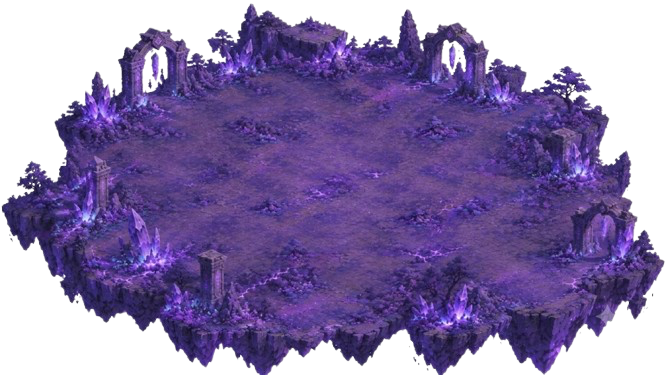
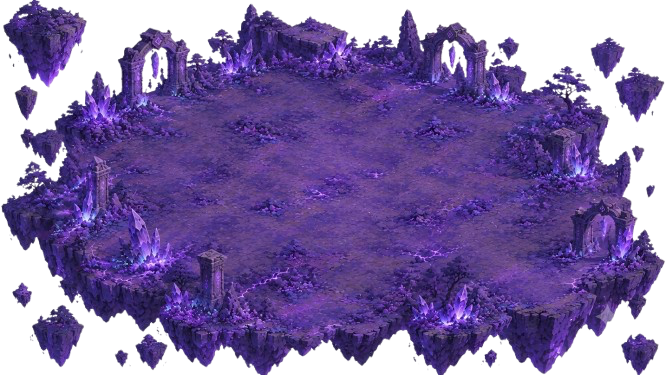
update bg map3

diff --git a/src/map/EarthArea.java b/src/map/EarthArea.java
@@ -19,16 +19,14 @@ import java.awt.geom.Line2D;
 import java.awt.geom.Path2D;
 import java.awt.geom.Point2D;
 import java.awt.image.BufferedImage;
-import java.io.File;
 import java.util.ArrayList;
-import java.util.Arrays;
 import java.util.List;
 import java.util.Random;
 
 /**
  * ĐẢO 3 - THẾ GIỚI SẤM SÉT (màu chủ đạo: tím)
  *
- * Bố cục: núi cao bao quanh vành đảo -> chân núi -> 4 ô trồng cây (mỗi ô 3x3) ngăn bởi đường chữ thập
+ * Bố cục: vành đảo -> chân đồi -> 4 ô trồng cây (mỗi ô 3x3) ngăn bởi đường chữ thập
  * -> quảng trường trung tâm có quả cầu lơ lửng. Cổng sấm sét đứng ở góc sau của đảo.
  * Trên trời: mây bão tím, sét đánh (có nháy sáng), tia điện nhỏ bay lên.
  *
@@ -38,10 +36,7 @@ import java.util.Random;
  *   lake.png        - hồ nước dưới quả cầu (ảnh phẳng nằm trên mặt đất, dạng hình thoi/elip 2:1). Chỉnh LAKE_W.
  *   ring_back.png, ring_front.png - (tuỳ chọn) vành hào quang kiểu sao Thổ, cùng kích thước & căn giữa:
  *                     ring_back là nửa nằm sau đảo, ring_front là nửa nằm trước đảo. Có ảnh thì bỏ vành tự vẽ.
- *   mountain*.png (mountain1.png, mountain_2.png, mountainA.jpg...) - ẢNH NÚI bao quanh vành đảo (nền trong suốt, chân núi nằm sát đáy ảnh).
- *                     Mọi file trong res/map3 có tên bắt đầu bằng "mountain" đều được nạp, game tự random + lật ngang.
- *                     Không có ảnh nào thì dùng núi tự vẽ. Chỉnh các hằng số MT_* bên dưới cho vừa mắt.
- *   map3_island.png - (tuỳ chọn) ảnh nền cả đảo 2880x1440; nếu có thì thay luôn nền ô và dãy núi tự vẽ.
+ *   map3_island.png - (tuỳ chọn) ảnh nền cả đảo 2880x1440; nếu có thì thay luôn nền ô tự vẽ.
  *   plant_lv1/2/3.png - cây người chơi trồng (Plant.java nạp), nên vẽ tông tím.
  */
 public class EarthArea extends MapArea {
@@ -54,7 +49,7 @@ public class EarthArea extends MapArea {
     // ====================== THAM SỐ DỄ CHỈNH ======================
     private static final int GATE_R = 0, GATE_C = 0;   // ô đặt cổng (0,0 = góc sau cùng của đảo)
     private static final int GATE_H = 720;             // chiều cao cổng khi dùng ảnh (px world)
-    private static final int GATE_LIFT = 20;          // nâng cổng lên (+) hay hạ xuống (-)
+    private static final int GATE_LIFT = 20;           // nâng cổng lên (+) hay hạ xuống (-)
     private static final int ORB_W = 340;              // chiều rộng quả cầu khi dùng ảnh
     private static final int ORB_LIFT = 260;           // độ cao quả cầu so với mặt đất
     private static final int LAKE_W = 440;             // chiều rộng hồ khi dùng ảnh
@@ -69,8 +64,8 @@ public class EarthArea extends MapArea {
     private static final double LAKE_FX_RX = 170;          // nửa chiều rộng vùng nước có gợn sóng (chiều cao = 1/2)
     private static final double ORB_FX_R = 130;            // bán kính vùng tia điện bên trong quả cầu
 
-    // Bật/tắt các lớp trang trí bên ngoài dãy núi
-    private static final boolean SHOW_CLOUD_COLLAR = true;   // mây bao quanh chân núi (phía ngoài)
+    // Bật/tắt các lớp trang trí bên ngoài đảo
+    private static final boolean SHOW_CLOUD_COLLAR = true;   // mây bao quanh đảo (phía ngoài)
     private static final boolean SHOW_HALO_RING = true;      // vành hào quang kiểu sao Thổ
     private static final int RING_BASE = 1950;               // bán kính ngoài của vành (px world)
     private static final int RING_DY = 120;                  // dịch tâm vành xuống một chút so với tâm đảo
@@ -85,40 +80,19 @@ public class EarthArea extends MapArea {
     // 4 ô trồng cây: {hàng đầu, hàng cuối, cột đầu, cột cuối}
     private static final int[][] PLOTS = {{2, 4, 2, 4}, {2, 4, 7, 9}, {7, 9, 2, 4}, {7, 9, 7, 9}};
 
-    // Lề ảnh đệm của dãy núi
-    private static final int PAD_X = 200, PAD_TOP = 700, PAD_BOTTOM = 120;
-    private static final double MOUNT_SCALE = 0.5;    // vẽ đệm nửa kích thước cho đỡ tốn bộ nhớ (núi tự vẽ)
-
-    // ====================== NÚI DÙNG ẢNH (res/map3/mountain1..8.png) ======================
-    private static final int MT_MAX_VARIANTS = 16;         // số ảnh núi tối đa sẽ nạp
-    private static final double MT_RIM_W_MIN = 380;        // chiều rộng núi ở vành ngoài (px world) - nhỏ nhất
-    private static final double MT_RIM_W_MAX = 560;        // ... lớn nhất
-    private static final double MT_FOOT_SCALE = 0.55;      // núi chân đồi (hàng trong) nhỏ bằng ngần này so với núi vành
-    private static final double MT_MAX_H = 820;            // giới hạn chiều cao 1 ngọn (px world), tránh tràn ảnh đệm
-    private static final int MT_SINK = 14;                 // hạ chân núi xuống thêm (px) để che phần trong suốt ở đáy ảnh
-    private static final boolean MT_FLIP = true;           // cho phép lật ngang ngẫu nhiên
-    private static final boolean MT_SHADOW = true;         // bóng mờ dưới chân núi
-    private static final double MT_LAYER_SCALE = 0.75;     // độ nét của lớp đệm núi ảnh (1.0 = nét nhất, tốn RAM nhất)
-
     // Sét: 3 "kênh" đánh lệch nhịp nhau
     private static final double[] BOLT_PERIOD = {3.3, 4.7, 6.1};
     private static final double[] BOLT_OFFSET = {0.0, 1.7, 3.1};
 
     private BufferedImage islandBgImg, gateImg, orbImg, lakeImg, ringBackImg, ringFrontImg;
-    private BufferedImage mountainLayer;
-    private final List<BufferedImage> mountainImgs = new ArrayList<>();   // ảnh núi người chơi cung cấp
-    private double mountScale = MOUNT_SCALE;                               // tỉ lệ thực tế của lớp đệm núi
-    private final List<double[]> tips = new ArrayList<>();   // đỉnh núi cao (x, y so với tâm đảo)
-
     private final long[] boltSlot = {-1, -1, -1};
     private final Path2D[] boltMain = new Path2D[3];
     private final Path2D[] boltBranch = new Path2D[3];
-    private final double[][] boltTarget = new double[3][3];  // x, y, loại (0 đỉnh núi, 1 quả cầu, 2 trời)
+    private final double[][] boltTarget = new double[3][3];  // x, y, loại (1 quả cầu, 2 trời)
 
     public EarthArea() {
         super(false);
         loadImages();
-        buildMountains();
     }
 
     @Override
@@ -130,25 +104,6 @@ public class EarthArea extends MapArea {
         lakeImg = ImageHelper.loadImage("res/map3/lake.png");
         ringBackImg = ImageHelper.loadImage("res/map3/ring_back.png");
         ringFrontImg = ImageHelper.loadImage("res/map3/ring_front.png");
-
-        // Quét thư mục res/map3: nạp MỌI ảnh có tên bắt đầu bằng "mountain" (hoặc gõ nhầm "moutain"), đuôi png/jpg/jpeg
-        mountainImgs.clear();
-        File[] files = new File("res/map3").listFiles();
-        if (files != null) {
-            Arrays.sort(files);
-            for (File f : files) {
-                String n = f.getName().toLowerCase();
-                boolean nameOk = n.startsWith("mountain") || n.startsWith("moutain");
-                boolean extOk = n.endsWith(".png") || n.endsWith(".jpg") || n.endsWith(".jpeg");
-                if (!nameOk || !extOk || mountainImgs.size() >= MT_MAX_VARIANTS) continue;
-                BufferedImage m = ImageHelper.loadImage(f.getPath());
-                if (m != null) {
-                    mountainImgs.add(m);
-                    System.out.println("[EarthArea] Đã nạp núi: " + f.getName());
-                }
-            }
-        }
-        System.out.println("[EarthArea] Tổng số ảnh núi: " + mountainImgs.size());
     }
 
     // =========================================================================
@@ -162,10 +117,6 @@ public class EarthArea extends MapArea {
         if (midR || midC) return PATH;
         if (layer == 1) return FOOT;
         return PLOT;
-    }
-
-    private boolean nearGate(int r, int c) {
-        return Math.abs(r - GATE_R) <= 1 && Math.abs(c - GATE_C) <= 1;
     }
 
     // Toạ độ world của điểm (r, c) có thể là số lẻ - cùng công thức với ImageHelper
@@ -189,186 +140,6 @@ public class EarthArea extends MapArea {
         return new Color(Math.min(255, (int) (c.getRed() * f)),
                          Math.min(255, (int) (c.getGreen() * f)),
                          Math.min(255, (int) (c.getBlue() * f)));
-    }
-
-    // =========================================================================
-    // DÃY NÚI (vẽ sẵn 1 lần vào ảnh đệm)
-    // =========================================================================
-    private void buildMountains() {
-        boolean useImg = !mountainImgs.isEmpty();
-        mountScale = useImg ? MT_LAYER_SCALE : MOUNT_SCALE;
-
-        int w = MAP3_WIDTH + PAD_X * 2;
-        int h = MAP3_HEIGHT + PAD_TOP + PAD_BOTTOM;
-        mountainLayer = new BufferedImage((int) (w * mountScale), (int) (h * mountScale),
-                                          BufferedImage.TYPE_INT_ARGB);
-        Graphics2D g = mountainLayer.createGraphics();
-        g.setRenderingHint(RenderingHints.KEY_ANTIALIASING, RenderingHints.VALUE_ANTIALIAS_ON);
-        g.setRenderingHint(RenderingHints.KEY_INTERPOLATION, RenderingHints.VALUE_INTERPOLATION_BILINEAR);
-        g.scale(mountScale, mountScale);
-        double offX = w / 2.0, offY = MAP3_HEIGHT / 2.0 + PAD_TOP;   // (x, y so với tâm) -> toạ độ đệm
-
-        Random rnd = new Random(11);
-        List<double[]> peaks = new ArrayList<>();   // {x, y, rộng, cao, hạt giống, là-núi-chính, chỉ số ảnh (-1 = tự vẽ)}
-        for (int r = 0; r < SIZE; r++) {
-            for (int c = 0; c < SIZE; c++) {
-                int kind = kindOf(r, c);
-                if (kind != RIM && kind != FOOT) continue;
-                if (nearGate(r, c)) continue;                     // chừa chỗ cho cổng
-                int n;
-                if (kind == RIM) n = 2 + (rnd.nextInt(3) == 0 ? 1 : 0);
-                else if (rnd.nextDouble() < 0.3) n = 1;
-                else continue;
-                double tx = (c - r) * (PlayState.TILE_W / 2.0);
-                double ty = (c + r - (SIZE - 1)) * (PlayState.TILE_H / 2.0);
-                // phía sau cao, phía trước thấp để không che vùng trồng
-                double depthF = 1.0 - 0.6 * ((r + c) / (2.0 * (SIZE - 1)));
-                for (int k = 0; k < n; k++) {
-                    double a = rnd.nextDouble() - 0.5, b = rnd.nextDouble() - 0.5;
-                    double x = tx + (b - a) * (PlayState.TILE_W / 2.0);
-                    double y = ty + (a + b) * (PlayState.TILE_H / 2.0);
-                    double pw, ph;
-                    int imgIdx = -1;
-                    if (useImg) {
-                        imgIdx = rnd.nextInt(mountainImgs.size());
-                        BufferedImage src = mountainImgs.get(imgIdx);
-                        double aspect = (double) src.getHeight() / src.getWidth();
-                        double base = MT_RIM_W_MIN + rnd.nextDouble() * (MT_RIM_W_MAX - MT_RIM_W_MIN);
-                        if (kind == FOOT) base *= MT_FOOT_SCALE;
-                        pw = base * depthF;                      // giữ nguyên tỉ lệ ảnh, phía trước thu nhỏ cả ngang lẫn dọc
-                        ph = pw * aspect;
-                        if (ph > MT_MAX_H) { pw *= MT_MAX_H / ph; ph = MT_MAX_H; }
-                    } else if (kind == RIM) {
-                        pw = 250 + rnd.nextDouble() * 170; ph = (340 + rnd.nextDouble() * 260) * depthF;
-                    } else {
-                        pw = 170 + rnd.nextDouble() * 100; ph = (110 + rnd.nextDouble() * 110) * depthF;
-                    }
-                    peaks.add(new double[]{x, y, pw, ph, rnd.nextInt(1_000_000), kind == RIM ? 1 : 0, imgIdx});
-                }
-            }
-        }
-        peaks.sort((p, q) -> Double.compare(p[1], q[1]));   // sau vẽ trước, trước vẽ sau
-
-        List<double[]> tall = new ArrayList<>();
-        for (double[] p : peaks) {
-            if (p[6] >= 0) drawImagePeak(g, mountainImgs.get((int) p[6]), p[0] + offX, p[1] + offY, p[2], p[3],
-                                         new Random((long) p[4]));
-            else           drawPeak(g, p[0] + offX, p[1] + offY, p[2], p[3], new Random((long) p[4]));
-            if (p[5] == 1 && p[3] > 300) tall.add(new double[]{p[0], p[1] - p[3], p[3]});
-        }
-        g.dispose();
-
-        tall.sort((p, q) -> Double.compare(q[2], p[2]));    // cao nhất lên đầu
-        for (int i = 0; i < Math.min(12, tall.size()); i++)
-            tips.add(new double[]{tall.get(i)[0], tall.get(i)[1]});
-    }
-
-    /** Vẽ một ngọn núi từ ảnh: chân núi đặt tại (x, y), căn giữa theo chiều ngang. g đang bị scale(mountScale). */
-    private void drawImagePeak(Graphics2D g, BufferedImage img, double x, double y, double w, double h, Random rnd) {
-        boolean flip = MT_FLIP && rnd.nextBoolean();
-
-        if (MT_SHADOW) {
-            g.setColor(new Color(20, 8, 40, 90));
-            g.fill(new Ellipse2D.Double(x - w * 0.5, y - 18, w, 44));
-        }
-
-        // thu nhỏ trước về đúng số điểm ảnh sẽ hiển thị (chia đôi dần) cho núi mịn, không răng cưa
-        int pw = Math.max(1, (int) Math.round(w * mountScale));
-        int ph = Math.max(1, (int) Math.round(h * mountScale));
-        BufferedImage scaled = scaleSmooth(img, pw, ph);
-
-        int dx = (int) Math.round(x - w / 2.0);
-        int dy = (int) Math.round(y - h + MT_SINK);
-        int iw = (int) Math.round(w), ih = (int) Math.round(h);
-        if (flip) g.drawImage(scaled, dx + iw, dy, -iw, ih, null);
-        else      g.drawImage(scaled, dx, dy, iw, ih, null);
-    }
-
-    private static BufferedImage scaleSmooth(BufferedImage src, int tw, int th) {
-        BufferedImage cur = src;
-        int cw = src.getWidth(), ch = src.getHeight();
-        while (cw / 2 >= tw && ch / 2 >= th) {
-            cw /= 2; ch /= 2;
-            cur = resizeOnce(cur, cw, ch);
-        }
-        return resizeOnce(cur, tw, th);
-    }
-
-    private static BufferedImage resizeOnce(BufferedImage src, int w, int h) {
-        BufferedImage out = new BufferedImage(w, h, BufferedImage.TYPE_INT_ARGB);
-        Graphics2D gg = out.createGraphics();
-        gg.setRenderingHint(RenderingHints.KEY_INTERPOLATION, RenderingHints.VALUE_INTERPOLATION_BILINEAR);
-        gg.drawImage(src, 0, 0, w, h, null);
-        gg.dispose();
-        return out;
-    }
-
-    /** Một ngọn núi tím: hai mặt sáng/tối, đỉnh phủ băng tím nhạt, vài vết nứt */
-    private void drawPeak(Graphics2D g, double x, double y, double w, double h, Random rnd) {
-        double tint = 0.88 + rnd.nextDouble() * 0.24;
-        Color lit = scale(new Color(100, 78, 156), tint);
-        Color shade = scale(new Color(58, 42, 104), tint);
-        Color line = new Color(30, 20, 56);
-        Color ice = new Color(222, 208, 250);
-        Color iceShade = new Color(176, 156, 226);
-
-        double ax = x + (rnd.nextDouble() - 0.5) * w * 0.12, ay = y - h;
-
-        // chân núi mờ cho hoà vào nền
-        g.setColor(new Color(20, 8, 40, 90));
-        g.fill(new Ellipse2D.Double(x - w * 0.6, y - 20, w * 1.2, 44));
-
-        Path2D.Double body = new Path2D.Double();
-        body.moveTo(x - w / 2, y);
-        body.lineTo(x - w * 0.30, y - h * 0.40);
-        body.lineTo(x - w * 0.12, y - h * 0.68);
-        body.lineTo(ax, ay);
-        body.lineTo(x + w * 0.14, y - h * 0.70);
-        body.lineTo(x + w * 0.31, y - h * 0.38);
-        body.lineTo(x + w / 2, y);
-        body.closePath();
-        g.setColor(lit);
-        g.fill(body);
-
-        Path2D.Double right = new Path2D.Double();
-        right.moveTo(ax, ay);
-        right.lineTo(x + w * 0.14, y - h * 0.70);
-        right.lineTo(x + w * 0.31, y - h * 0.38);
-        right.lineTo(x + w / 2, y);
-        right.lineTo(x + w * 0.05, y);
-        right.lineTo(x + w * 0.01, y - h * 0.50);
-        right.closePath();
-        g.setColor(shade);
-        g.fill(right);
-
-        // đỉnh băng
-        Path2D.Double cap = new Path2D.Double();
-        cap.moveTo(ax, ay);
-        cap.lineTo(x - w * 0.12, y - h * 0.68);
-        cap.lineTo(x - w * 0.08, y - h * 0.60);
-        cap.lineTo(x - w * 0.02, y - h * 0.67);
-        cap.lineTo(x + w * 0.04, y - h * 0.59);
-        cap.lineTo(x + w * 0.10, y - h * 0.66);
-        cap.lineTo(x + w * 0.14, y - h * 0.70);
-        cap.closePath();
-        g.setColor(ice);
-        g.fill(cap);
-        Path2D.Double capShade = new Path2D.Double();
-        capShade.moveTo(ax, ay);
-        capShade.lineTo(x + w * 0.14, y - h * 0.70);
-        capShade.lineTo(x + w * 0.10, y - h * 0.66);
-        capShade.lineTo(x + w * 0.04, y - h * 0.59);
-        capShade.lineTo(x + w * 0.01, y - h * 0.62);
-        capShade.closePath();
-        g.setColor(iceShade);
-        g.fill(capShade);
-
-        g.setStroke(new BasicStroke(4f, BasicStroke.CAP_ROUND, BasicStroke.JOIN_ROUND));
-        g.setColor(line);
-        g.draw(body);
-        g.setColor(new Color(30, 20, 56, 150));
-        g.drawLine((int) (x - w * 0.12), (int) (y - h * 0.30), (int) (x - w * 0.02), (int) (y - h * 0.06));
-        g.drawLine((int) (x + w * 0.18), (int) (y - h * 0.34), (int) (x + w * 0.28), (int) (y - h * 0.10));
     }
 
     // =========================================================================
@@ -473,23 +244,14 @@ public class EarthArea extends MapArea {
 
         drawStormClouds(g2, cx, cy, sec, flash);
         drawHalo(g2, cx, cy, sec, flash, true);           // nửa sau của vành hào quang
-        drawCloudCollar(g2, cx, cy, sec, flash, true);    // mây phía sau dãy núi
-
-        // Có ảnh núi riêng thì luôn vẽ (kể cả khi đã có ảnh nền đảo); không có ảnh núi thì chỉ vẽ núi tự vẽ khi chưa có ảnh nền
-        if (islandBgImg == null || !mountainImgs.isEmpty()) {
-            g2.drawImage(mountainLayer, cx - (int) ((MAP3_WIDTH + PAD_X * 2) / 2.0),
-                         cy - MAP3_HEIGHT / 2 - PAD_TOP,
-                         (int) Math.round(mountainLayer.getWidth() / mountScale),
-                         (int) Math.round(mountainLayer.getHeight() / mountScale), null);
-        }
+        drawCloudCollar(g2, cx, cy, sec, flash, true);    // mây phía sau đảo
 
         drawPlotBorders(g2, sec);
         drawRuneRing(g2, cx, cy, sec, orbCharge);
         drawGate(g2, sec, flash);
         if (!overlayHooked) drawOrb(g2, cx, cy, sec, orbCharge);   // dự phòng khi PlayState chưa gọi drawOverlay()
         drawHalo(g2, cx, cy, sec, flash, false);          // nửa trước của vành hào quang
-        drawCloudCollar(g2, cx, cy, sec, flash, false);   // mây phủ chân núi phía trước
-        drawPeakZaps(g2, cx, cy, sec);
+        drawCloudCollar(g2, cx, cy, sec, flash, false);   // mây phía trước đảo
         drawBolts(g2, stormInten);
         drawMotes(g2, cx, cy, sec);
         drawFlash(g2, cx, cy, flash);
@@ -665,10 +427,10 @@ public class EarthArea extends MapArea {
         }
     }
 
-    // ------------------------------ Mây bao quanh chân núi (phía ngoài) ------------------------------
+    // ------------------------------ Mây bao quanh đảo (phía ngoài) ------------------------------
     private void drawCloudCollar(Graphics2D g2, int cx, int cy, double sec, double flash, boolean back) {
         if (!SHOW_CLOUD_COLLAR) return;
-        double W = 1440 + 260, H = 720 + 140;                   // đường viền hình thoi nới rộng ra ngoài chân núi
+        double W = 1440 + 260, H = 720 + 140;                   // đường viền hình thoi nới rộng ra ngoài đảo
         double[][] corners = {{0, -H}, {W, 0}, {0, H}, {-W, 0}};
         Color body = lerp(new Color(58, 42, 104), new Color(190, 150, 250), flash * 0.8);
         Color under = lerp(new Color(34, 22, 66), new Color(150, 110, 220), flash * 0.5);
@@ -1060,10 +822,7 @@ public class EarthArea extends MapArea {
 
         double tx, ty, type;
         double roll = rnd.nextDouble();
-        if (roll < 0.5 && !tips.isEmpty()) {
-            double[] t = tips.get(rnd.nextInt(tips.size()));
-            tx = cx + t[0]; ty = cy + t[1]; type = 0;
-        } else if (roll < 0.7) {
+        if (roll < 0.35) {
             tx = cx; ty = cy - ORB_LIFT; type = 1;
         } else {
             tx = cx + (rnd.nextDouble() - 0.5) * 3600; ty = cy + (rnd.nextDouble() - 0.3) * 1000; type = 2;
@@ -1116,23 +875,6 @@ public class EarthArea extends MapArea {
         g2.setPaint(new RadialGradientPaint(new Point2D.Double(cx, cy - 300), 2600f, new float[]{0f, 1f},
                 new Color[]{new Color(215, 180, 255, (int) (70 * flash)), new Color(120, 60, 220, 0)}));
         g2.fill(new Ellipse2D.Double(cx - 2600, cy - 2900, 5200, 5200));
-    }
-
-    /** Tia điện nhỏ nháy ở đỉnh các ngọn núi cao */
-    private void drawPeakZaps(Graphics2D g2, int cx, int cy, double sec) {
-        long tick = (long) (sec * 12);
-        for (int i = 0; i < Math.min(tips.size(), 10); i++) {
-            if ((tick / 2 + i * 3) % 7 != 0) continue;
-            Random rnd = new Random(tick * 31 + i);
-            double x0 = cx + tips.get(i)[0], y0 = cy + tips.get(i)[1];
-            Path2D z = zigzag(x0, y0, x0 + (rnd.nextDouble() - 0.5) * 160, y0 - 160 - rnd.nextDouble() * 120, rnd, 5, 22);
-            g2.setStroke(new BasicStroke(12f, BasicStroke.CAP_ROUND, BasicStroke.JOIN_ROUND));
-            g2.setColor(new Color(170, 110, 255, 110));
-            g2.draw(z);
-            g2.setStroke(new BasicStroke(4f, BasicStroke.CAP_ROUND, BasicStroke.JOIN_ROUND));
-            g2.setColor(new Color(250, 240, 255));
-            g2.draw(z);
-        }
     }
 
     /** Hạt điện lấp lánh bay lên từ mặt đảo */
